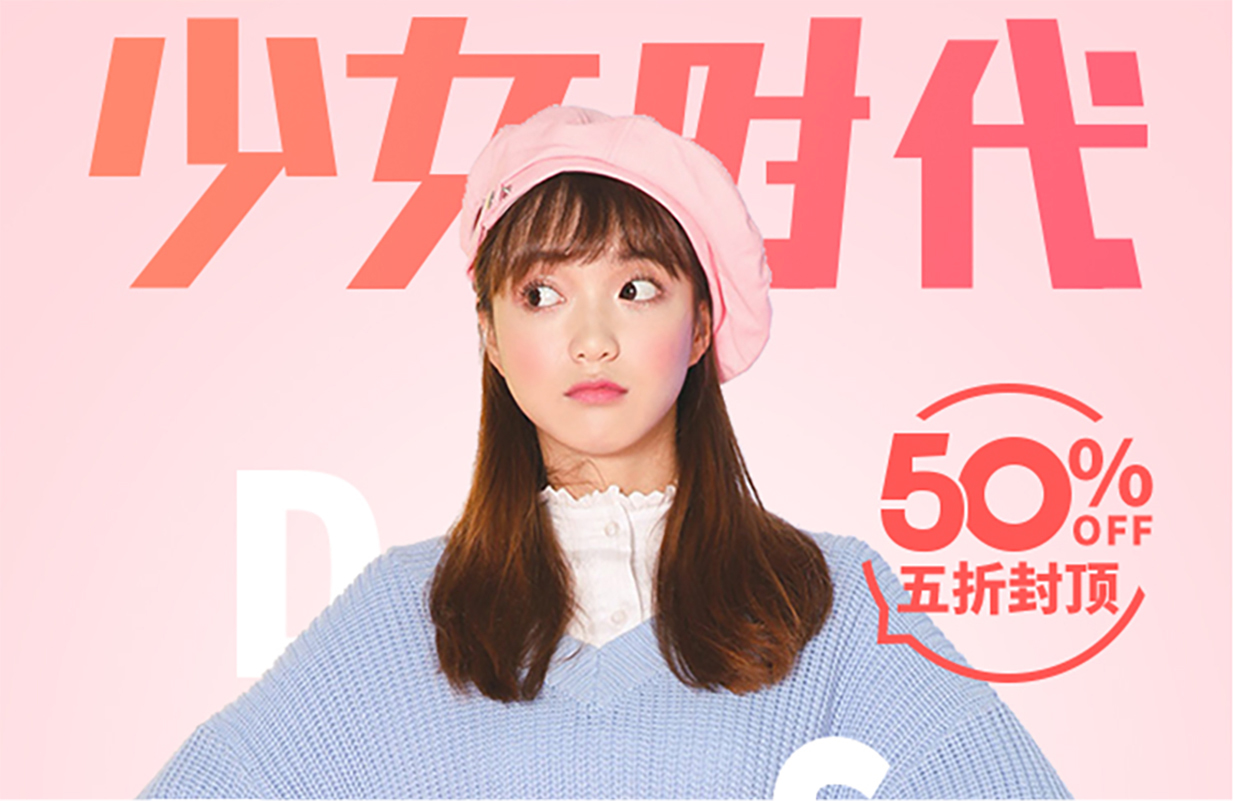
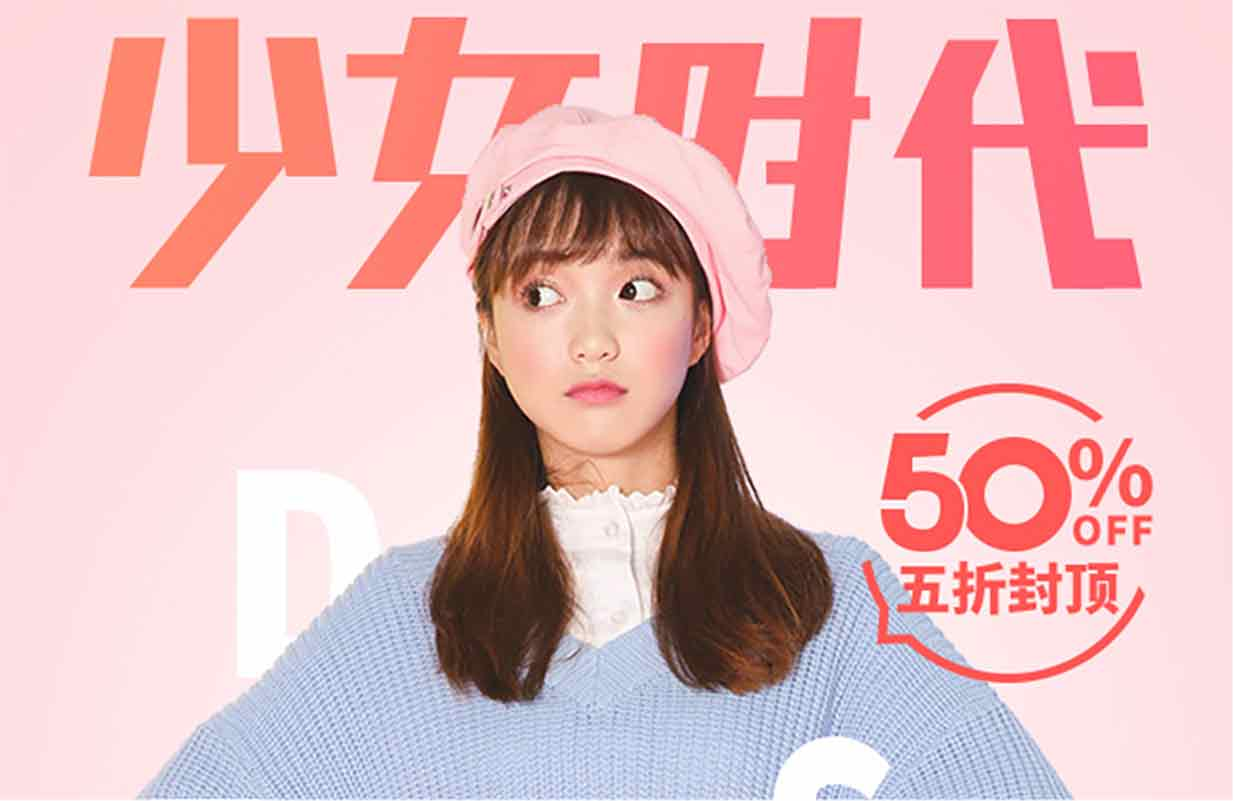
大图切片

diff --git a/app.html b/app.html
@@ -13,7 +13,13 @@
 </head>
 <body bgcolor="#f8f8f8">
 	<div align="center">	
-		<img alt="" src="images/portfolio/app.jpg">	
+		<img alt="" src="images/portfolio/app_01.jpg">	
+		<img alt="" src="images/portfolio/app_02.jpg">
+		<img alt="" src="images/portfolio/app_03.jpg">
+		<img alt="" src="images/portfolio/app_04.jpg">
+		<img alt="" src="images/portfolio/app_05.jpg">
+		<img alt="" src="images/portfolio/app_06.jpg">
+		<img alt="" src="images/portfolio/app_07.jpg">
 	</div>
 	<br><br>
                <div class="pop-button" style="text-align: center;">
